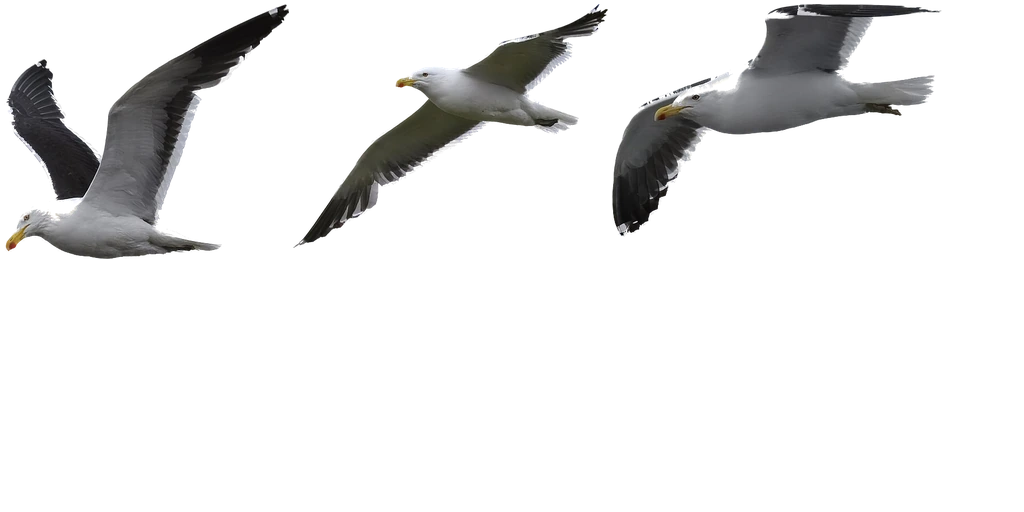
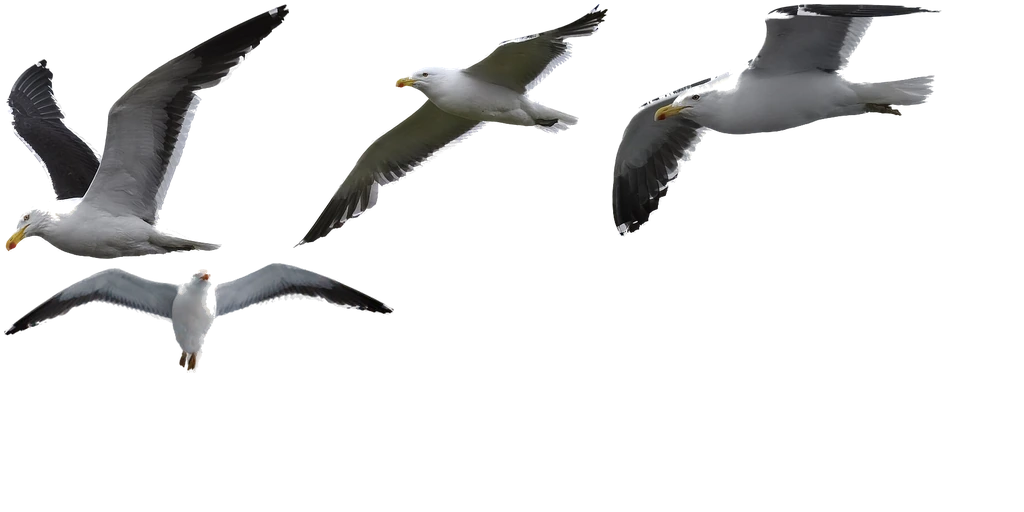
Give the kelp gull, raven and Verreaux's eagle head-on frames
These are the picture kinds that turn, and a picture flipped to its mirror
image as one turned through the eye's line. A head-on frame now covers that
moment: a kelp gull photographed coming on, a raven and the eagle from below
(the eagle levelled with the tool's new `turn`, both shortened by `squash`
to how a bird coming on from a little below looks).

Claude-Session: https://claude.ai/code/session_012iNshuFMyvbkPRWxxbwWQm

Changed region(s): [[0.0, 0.5, 0.4062, 0.7188]]

diff --git a/credits.html b/credits.html
@@ -40,12 +40,13 @@
 </table></div>
 <p>The stitched backdrops' skies are Poly Haven's Qwantani pure skies (below).</p>
 <h2>Birds</h2>
-<p>The birds are photographs of real ones from Wikimedia Commons, cut out of their backgrounds and resized, or for the 3D birds painted onto their models (<code>tools/bird-sprites.py</code>, <code>tools/bird-models.py</code>; this section is written by <code>tools/bird-credits.mjs</code> from the credits they record). Because the herring gull's, african sacred ibis's, blue jay's and northern cardinal's images are made from CC BY-SA photographs, they are shared under <a href="https://creativecommons.org/licenses/by-sa/4.0/">CC BY-SA 4.0</a> too.</p>
+<p>The birds are photographs of real ones from Wikimedia Commons, cut out of their backgrounds and resized, or for the 3D birds painted onto their models (<code>tools/bird-sprites.py</code>, <code>tools/bird-models.py</code>; this section is written by <code>tools/bird-credits.mjs</code> from the credits they record). Because the kelp gull's, herring gull's, african sacred ibis's, blue jay's and northern cardinal's images are made from CC BY-SA photographs, they are shared under <a href="https://creativecommons.org/licenses/by-sa/4.0/">CC BY-SA 4.0</a> too.</p>
 <div class="table"><table>
 <tr><th>Shows</th><th>Photograph</th><th>Author</th><th>Licence</th></tr>
 <tr><td>Kelp gull (Rocky cove)</td><td><a href="https://commons.wikimedia.org/wiki/File:Kelp_gull_half_moon_island_1.17.25_DSC_9790-topaz-rawdenoise.jpg">Kelp gull half moon island 1.17.25 DSC 9790-topaz-rawdenoise</a></td><td>lwolfartist</td><td><a href="https://creativecommons.org/licenses/by/2.0/">CC BY 2.0</a></td></tr>
 <tr><td>Kelp gull (Rocky cove)</td><td><a href="https://commons.wikimedia.org/wiki/File:Kelp_gull_deesembocadura_rio_olivia_DSC_3427-topaz-rawdenoise.jpg">Kelp gull deesembocadura rio olivia DSC 3427-topaz-rawdenoise</a></td><td>lwolfartist</td><td><a href="https://creativecommons.org/licenses/by/2.0/">CC BY 2.0</a></td></tr>
 <tr><td>Kelp gull (Rocky cove)</td><td><a href="https://commons.wikimedia.org/wiki/File:Kelp_gull_deesembocadura_rio_olivia_DSC_3294-topaz-rawdenoise.jpg">Kelp gull deesembocadura rio olivia DSC 3294-topaz-rawdenoise</a></td><td>lwolfartist</td><td><a href="https://creativecommons.org/licenses/by/2.0/">CC BY 2.0</a></td></tr>
+<tr><td>Kelp gull (Rocky cove)</td><td><a href="https://commons.wikimedia.org/wiki/File:Larus_dominicanus_DT_-AQ_Greenwich-_%2813%29_%2820237605973%29.jpg">Larus dominicanus DT -AQ Greenwich- (13) (20237605973)</a></td><td>Diego Tirira</td><td><a href="https://creativecommons.org/licenses/by-sa/2.0/">CC BY-SA 2.0</a></td></tr>
 <tr><td>Herring gull (Loch Ness)</td><td><a href="https://commons.wikimedia.org/wiki/File:Silberm%C3%B6we_%28Larus_argentatus%29_im_Flug_%282007%29.jpg">Silbermöwe (Larus argentatus) im Flug (2007)</a></td><td>Jochen Teufel</td><td><a href="https://creativecommons.org/licenses/by-sa/3.0/">CC BY-SA 3.0</a></td></tr>
 <tr><td>Herring gull (Loch Ness)</td><td><a href="https://commons.wikimedia.org/wiki/File:Herring_gull_in_flight_%2800905%29.jpg">Herring gull in flight (00905)</a></td><td>Rhododendrites</td><td><a href="https://creativecommons.org/licenses/by-sa/4.0/">CC BY-SA 4.0</a></td></tr>
 <tr><td>Grey heron (Koi pond, Highlands)</td><td><a href="https://commons.wikimedia.org/wiki/File:Grey_heron_2025_10_26_02.jpg">Grey heron 2025 10 26 02</a></td><td>Alexis Lours</td><td><a href="https://creativecommons.org/licenses/by/4.0/">CC BY 4.0</a></td></tr>
@@ -55,8 +56,10 @@
 <tr><td>Common raven (Swiss Alps)</td><td><a href="https://commons.wikimedia.org/wiki/File:Common_Raven_on_Seedskadee_NWR_%2822849558584%29.jpg">Common Raven on Seedskadee NWR (22849558584)</a></td><td>USFWS Mountain-Prairie</td><td><a href="https://creativecommons.org/publicdomain/mark/1.0/">Public domain</a></td></tr>
 <tr><td>Common raven (Swiss Alps)</td><td><a href="https://commons.wikimedia.org/wiki/File:Common_Raven_on_Seedskadee_NWR_%2822850605113%29.jpg">Common Raven on Seedskadee NWR (22850605113)</a></td><td>USFWS Mountain-Prairie</td><td><a href="https://creativecommons.org/publicdomain/mark/1.0/">Public domain</a></td></tr>
 <tr><td>Common raven (Swiss Alps)</td><td><a href="https://commons.wikimedia.org/wiki/File:Common_Raven_on_Seedskadee_NWR_%2823181911180%29.jpg">Common Raven on Seedskadee NWR (23181911180)</a></td><td>USFWS Mountain-Prairie</td><td><a href="https://creativecommons.org/publicdomain/mark/1.0/">Public domain</a></td></tr>
+<tr><td>Common raven (Swiss Alps)</td><td><a href="https://commons.wikimedia.org/wiki/File:Corvus_corax_CR5_5935_%2851036203491%29.jpg">Corvus corax CR5 5935 (51036203491)</a></td><td>Bengt Nyman</td><td><a href="https://creativecommons.org/licenses/by/2.0/">CC BY 2.0</a></td></tr>
 <tr><td>Verreaux's eagle (Desert oasis)</td><td><a href="https://commons.wikimedia.org/wiki/File:Verreaux%27s_Eagle._Black_Eagle%2C_Aquila_verreauxii%2C_at_Walter_Sisulu_National_Botanical_Garden%2C_Gauteng%2C_South_Africa_%2818987033114%29.jpg">Verreaux's Eagle. Black Eagle, Aquila verreauxii, at Walter Sisulu National Botanical Garden, Gauteng, South Africa (18987033114)</a></td><td>Derek Keats</td><td><a href="https://creativecommons.org/licenses/by/2.0/">CC BY 2.0</a></td></tr>
 <tr><td>Verreaux's eagle (Desert oasis)</td><td><a href="https://commons.wikimedia.org/wiki/File:Verreaux%27s_Eagle._Black_Eagle%2C_Aquila_verreauxii%2C_at_Walter_Sisulu_National_Botanical_Garden%2C_Gauteng%2C_South_Africa_%2819583407276%29.jpg">Verreaux's Eagle. Black Eagle, Aquila verreauxii, at Walter Sisulu National Botanical Garden, Gauteng, South Africa (19583407276)</a></td><td>Derek Keats</td><td><a href="https://creativecommons.org/licenses/by/2.0/">CC BY 2.0</a></td></tr>
+<tr><td>Verreaux's eagle (Desert oasis)</td><td><a href="https://commons.wikimedia.org/wiki/File:Verreaux%27s_Eagle._Black_Eagle%2C_Aquila_verreauxii%2C_at_Walter_Sisulu_National_Botanical_Garden%2C_Gauteng%2C_South_Africa_%2819609395245%29.jpg">Verreaux's Eagle. Black Eagle, Aquila verreauxii, at Walter Sisulu National Botanical Garden, Gauteng, South Africa (19609395245)</a></td><td>Derek Keats</td><td><a href="https://creativecommons.org/licenses/by/2.0/">CC BY 2.0</a></td></tr>
 <tr><td>African fish eagle (Lakeside)</td><td><a href="https://commons.wikimedia.org/wiki/File:African_fish_eagle%2C_Haliaeetus_vocifer%2C_at_Chobe_National_Park%2C_Botswana_%2832832146603%29.jpg">African fish eagle, Haliaeetus vocifer, at Chobe National Park, Botswana (32832146603)</a></td><td>Derek Keats</td><td><a href="https://creativecommons.org/licenses/by/2.0/">CC BY 2.0</a></td></tr>
 <tr><td>African fish eagle (Lakeside)</td><td><a href="https://commons.wikimedia.org/wiki/File:African_fish_eagle%2C_Haliaeetus_vocifer%2C_at_Lake_Chivero%2C_Harare%2C_Zimbabwe_%2821313291203%29.jpg">African fish eagle, Haliaeetus vocifer, at Lake Chivero, Harare, Zimbabwe (21313291203)</a></td><td>Derek Keats</td><td><a href="https://creativecommons.org/licenses/by/2.0/">CC BY 2.0</a></td></tr>
 <tr><td>Mute swan (Wooded lake)</td><td><a href="https://commons.wikimedia.org/wiki/File:After_eating_the_family_was_leaving_Houten_-_panoramio.jpg">After eating the family was leaving Houten - panoramio</a></td><td>Henk Mons</td><td><a href="https://creativecommons.org/licenses/by/3.0/">CC BY 3.0</a></td></tr>

diff --git a/tools/bird-sprites.py b/tools/bird-sprites.py
@@ -42,7 +42,11 @@
 # a white sky), matched by the mean colour of its body's mid-tones (a photo
 # whose whites are clipped cannot be: take another); `darks` (a knee,
 # 0-255, and a power) deepens only what is darker than the knee, a photo
-# whose black head and wingtips the haze has washed grey. Each frame faces left
+# whose black head and wingtips the haze has washed grey. `turn` (degrees,
+# anticlockwise) levels a bird photographed banking; `squash` (a share)
+# shortens a bird seen from straight below to how it looks coming on from a
+# little below (a flat bird's depth foreshortened: its head-on frame, where
+# no head-on photo is to be had). Each frame faces left
 # (`flip` turns one that faces right) and is scaled so its box is `metres`
 # wide (or tall, `measure: 'height'`), at its kind's PIXELS_PER_METRE: about
 # 400 pixels across a flying bird's wings, more for the heron, seen nearest.
@@ -105,6 +109,9 @@ PHOTOS = [
          cut='sky', low=20, high=48, fill=True, flip=True, metres=0.95, anchor=(0.6, 0.2)),
     dict(frame='kelp-down', bird='kelp', file='Kelp gull deesembocadura rio olivia DSC 3294-topaz-rawdenoise.jpg', author='lwolfartist', licence=CC_BY_2,
          cut='sky', low=20, high=48, fill=True, metres=1.05, anchor=(0.55, 0.6)),
+    # Head on, coming at the eye from a little below (Antarctic Peninsula, under a blue-grey sky: brought to the others' white light).
+    dict(frame='kelp-front', bird='kelp', file='Larus dominicanus DT -AQ Greenwich- (13) (20237605973).jpg', author='Diego Tirira', licence=CC_BY_SA_2,
+         cut='sky', low=20, high=48, fill=True, gain=(1.25, 1.12, 1.03), metres=1.3, anchor=(0.5, 0.6)),
     # A great frigatebird (immature) soaring over Midway Atoll, from below: banking, and coming on.
     dict(frame='frigate-glide', bird='frigate', file='Great Frigatebird ( immature) Eastern Island Midway Atoll 2019-01-07 16-16-20 (46379948975).jpg', author='Bettina Arrigoni', licence=CC_BY_2,
          cut='sky', low=35, high=80, fill=True, metres=1.9, anchor=(0.5, 0.6)),
@@ -124,6 +131,9 @@ PHOTOS = [
     # Wings at the top of the stroke.
     dict(frame='goose-up', bird='goose', file='Nilgans (54254515720).jpg', author='Ralf Hüsges', licence=CC_BY_2,
          cut='sky', low=35, high=80, flip=True, metres=1.2, anchor=(0.5, 0.3)),
+    # From below (the same garden), levelled and shortened to how it looks coming on: its head-on frame.
+    dict(frame='eagle-front', bird='eagle', file="Verreaux's Eagle. Black Eagle, Aquila verreauxii, at Walter Sisulu National Botanical Garden, Gauteng, South Africa (19609395245).jpg", author='Derek Keats', licence=CC_BY_2,
+         cut='sky', low=35, high=80, turn=-60, squash=0.55, metres=2.0, anchor=(0.5, 0.55)),
     # African fish eagles: gliding by (a post beside it cropped away), its wings raised, and coming on.
     dict(frame='fishEagle-glide', bird='fishEagle', file='2021 sep kenia-62 (51676976311).jpg', author='leopoldo de castro', licence=CC_BY_2,
          cut='sky', low=35, high=80, crop=(420, 0, 1280, 997), flip=True, metres=2.0, anchor=(0.45, 0.45)),
@@ -154,6 +164,9 @@ PHOTOS = [
          cut='sky', low=35, high=80, metres=0.9, anchor=(0.4, 0.5)),
     dict(frame='raven-up', bird='raven', file='Common Raven on Seedskadee NWR (23181911180).jpg', author='USFWS Mountain-Prairie', licence=PUBLIC_DOMAIN,
          cut='sky', low=35, high=80, metres=0.85, anchor=(0.4, 0.4)),
+    # From below, coming on (Bogesund, Sweden, under a white sky).
+    dict(frame='raven-front', bird='raven', file='Corvus corax CR5 5935 (51036203491).jpg', author='Bengt Nyman', licence=CC_BY_2,
+         cut='sky', low=35, high=80, squash=0.7, metres=1.25, anchor=(0.5, 0.55)),
     dict(frame='herring-glide', bird='herring', file='Herring Gull (44562549102).jpg', author='Mike Prince', licence=CC_BY_2,
          cut='blue', low=14, high=34, metres=0.8, anchor=(0.45, 0.6)),
     dict(frame='herring-up', bird='herring', file='Gråtrut European Herring Gull (13896263568).jpg', author='Åsa Berndtsson', licence=CC_BY_2,
@@ -289,6 +302,10 @@ def frame_image(spec):
     if 'darks' in spec:
         knee, power = spec['darks']
         colour = np.where(colour < knee, knee * (colour / knee) ** power, colour)
+    if 'turn' in spec:   # premultiplied, so the clear pixels round it never darken its edge
+        turned = ndimage.rotate(np.dstack([colour * alpha[..., None], alpha]), spec['turn'], axes=(1, 0), reshape=True, order=1, mode='constant')
+        alpha = np.clip(turned[..., 3], 0, 1)
+        colour = np.clip(turned[..., :3] / np.maximum(alpha, 1e-3)[..., None], 0, 255)
     ys, xs = np.nonzero(alpha > 0.02)
     left, top, right, bottom = xs.min(), ys.min(), xs.max() + 1, ys.max() + 1
     picture = Image.fromarray(np.dstack([colour, alpha * 255]).astype(np.uint8)).crop((left, top, right, bottom))
@@ -302,7 +319,7 @@ def frame_image(spec):
     width, height = picture.size
     box = height if spec.get('measure') == 'height' else width
     scale = spec['metres'] * PIXELS_PER_METRE[spec['bird']] / box
-    picture = picture.resize((max(round(width * scale), 1), max(round(height * scale), 1)), Image.LANCZOS)
+    picture = picture.resize((max(round(width * scale), 1), max(round(height * scale * spec.get('squash', 1)), 1)), Image.LANCZOS)
     metres = (picture.size[0] / PIXELS_PER_METRE[spec['bird']], picture.size[1] / PIXELS_PER_METRE[spec['bird']])
     return picture, metres, anchor
 

diff --git a/CREDITS.md b/CREDITS.md
@@ -23,13 +23,14 @@ The stitched backdrops' skies are Poly Haven's Qwantani pure skies (below).
 
 ## Birds
 
-The birds are photographs of real ones from Wikimedia Commons, cut out of their backgrounds and resized, or for the 3D birds painted onto their models (`tools/bird-sprites.py`, `tools/bird-models.py`; this section is written by `tools/bird-credits.mjs` from the credits they record). Because the herring gull's, african sacred ibis's, blue jay's and northern cardinal's images are made from CC BY-SA photographs, they are shared under [CC BY-SA 4.0](https://creativecommons.org/licenses/by-sa/4.0/) too.
+The birds are photographs of real ones from Wikimedia Commons, cut out of their backgrounds and resized, or for the 3D birds painted onto their models (`tools/bird-sprites.py`, `tools/bird-models.py`; this section is written by `tools/bird-credits.mjs` from the credits they record). Because the kelp gull's, herring gull's, african sacred ibis's, blue jay's and northern cardinal's images are made from CC BY-SA photographs, they are shared under [CC BY-SA 4.0](https://creativecommons.org/licenses/by-sa/4.0/) too.
 
 | Shows | Photograph | Author | Licence |
 |---|---|---|---|
 | Kelp gull (Rocky cove) | [Kelp gull half moon island 1.17.25 DSC 9790-topaz-rawdenoise](https://commons.wikimedia.org/wiki/File:Kelp_gull_half_moon_island_1.17.25_DSC_9790-topaz-rawdenoise.jpg) | lwolfartist | [CC BY 2.0](https://creativecommons.org/licenses/by/2.0/) |
 | Kelp gull (Rocky cove) | [Kelp gull deesembocadura rio olivia DSC 3427-topaz-rawdenoise](https://commons.wikimedia.org/wiki/File:Kelp_gull_deesembocadura_rio_olivia_DSC_3427-topaz-rawdenoise.jpg) | lwolfartist | [CC BY 2.0](https://creativecommons.org/licenses/by/2.0/) |
 | Kelp gull (Rocky cove) | [Kelp gull deesembocadura rio olivia DSC 3294-topaz-rawdenoise](https://commons.wikimedia.org/wiki/File:Kelp_gull_deesembocadura_rio_olivia_DSC_3294-topaz-rawdenoise.jpg) | lwolfartist | [CC BY 2.0](https://creativecommons.org/licenses/by/2.0/) |
+| Kelp gull (Rocky cove) | [Larus dominicanus DT -AQ Greenwich- (13) (20237605973)](https://commons.wikimedia.org/wiki/File:Larus_dominicanus_DT_-AQ_Greenwich-_%2813%29_%2820237605973%29.jpg) | Diego Tirira | [CC BY-SA 2.0](https://creativecommons.org/licenses/by-sa/2.0/) |
 | Herring gull (Loch Ness) | [Silbermöwe (Larus argentatus) im Flug (2007)](https://commons.wikimedia.org/wiki/File:Silberm%C3%B6we_%28Larus_argentatus%29_im_Flug_%282007%29.jpg) | Jochen Teufel | [CC BY-SA 3.0](https://creativecommons.org/licenses/by-sa/3.0/) |
 | Herring gull (Loch Ness) | [Herring gull in flight (00905)](https://commons.wikimedia.org/wiki/File:Herring_gull_in_flight_%2800905%29.jpg) | Rhododendrites | [CC BY-SA 4.0](https://creativecommons.org/licenses/by-sa/4.0/) |
 | Grey heron (Koi pond, Highlands) | [Grey heron 2025 10 26 02](https://commons.wikimedia.org/wiki/File:Grey_heron_2025_10_26_02.jpg) | Alexis Lours | [CC BY 4.0](https://creativecommons.org/licenses/by/4.0/) |
@@ -39,8 +40,10 @@ The birds are photographs of real ones from Wikimedia Commons, cut out of their 
 | Common raven (Swiss Alps) | [Common Raven on Seedskadee NWR (22849558584)](https://commons.wikimedia.org/wiki/File:Common_Raven_on_Seedskadee_NWR_%2822849558584%29.jpg) | USFWS Mountain-Prairie | [Public domain](https://creativecommons.org/publicdomain/mark/1.0/) |
 | Common raven (Swiss Alps) | [Common Raven on Seedskadee NWR (22850605113)](https://commons.wikimedia.org/wiki/File:Common_Raven_on_Seedskadee_NWR_%2822850605113%29.jpg) | USFWS Mountain-Prairie | [Public domain](https://creativecommons.org/publicdomain/mark/1.0/) |
 | Common raven (Swiss Alps) | [Common Raven on Seedskadee NWR (23181911180)](https://commons.wikimedia.org/wiki/File:Common_Raven_on_Seedskadee_NWR_%2823181911180%29.jpg) | USFWS Mountain-Prairie | [Public domain](https://creativecommons.org/publicdomain/mark/1.0/) |
+| Common raven (Swiss Alps) | [Corvus corax CR5 5935 (51036203491)](https://commons.wikimedia.org/wiki/File:Corvus_corax_CR5_5935_%2851036203491%29.jpg) | Bengt Nyman | [CC BY 2.0](https://creativecommons.org/licenses/by/2.0/) |
 | Verreaux's eagle (Desert oasis) | [Verreaux's Eagle. Black Eagle, Aquila verreauxii, at Walter Sisulu National Botanical Garden, Gauteng, South Africa (18987033114)](https://commons.wikimedia.org/wiki/File:Verreaux%27s_Eagle._Black_Eagle%2C_Aquila_verreauxii%2C_at_Walter_Sisulu_National_Botanical_Garden%2C_Gauteng%2C_South_Africa_%2818987033114%29.jpg) | Derek Keats | [CC BY 2.0](https://creativecommons.org/licenses/by/2.0/) |
 | Verreaux's eagle (Desert oasis) | [Verreaux's Eagle. Black Eagle, Aquila verreauxii, at Walter Sisulu National Botanical Garden, Gauteng, South Africa (19583407276)](https://commons.wikimedia.org/wiki/File:Verreaux%27s_Eagle._Black_Eagle%2C_Aquila_verreauxii%2C_at_Walter_Sisulu_National_Botanical_Garden%2C_Gauteng%2C_South_Africa_%2819583407276%29.jpg) | Derek Keats | [CC BY 2.0](https://creativecommons.org/licenses/by/2.0/) |
+| Verreaux's eagle (Desert oasis) | [Verreaux's Eagle. Black Eagle, Aquila verreauxii, at Walter Sisulu National Botanical Garden, Gauteng, South Africa (19609395245)](https://commons.wikimedia.org/wiki/File:Verreaux%27s_Eagle._Black_Eagle%2C_Aquila_verreauxii%2C_at_Walter_Sisulu_National_Botanical_Garden%2C_Gauteng%2C_South_Africa_%2819609395245%29.jpg) | Derek Keats | [CC BY 2.0](https://creativecommons.org/licenses/by/2.0/) |
 | African fish eagle (Lakeside) | [African fish eagle, Haliaeetus vocifer, at Chobe National Park, Botswana (32832146603)](https://commons.wikimedia.org/wiki/File:African_fish_eagle%2C_Haliaeetus_vocifer%2C_at_Chobe_National_Park%2C_Botswana_%2832832146603%29.jpg) | Derek Keats | [CC BY 2.0](https://creativecommons.org/licenses/by/2.0/) |
 | African fish eagle (Lakeside) | [African fish eagle, Haliaeetus vocifer, at Lake Chivero, Harare, Zimbabwe (21313291203)](https://commons.wikimedia.org/wiki/File:African_fish_eagle%2C_Haliaeetus_vocifer%2C_at_Lake_Chivero%2C_Harare%2C_Zimbabwe_%2821313291203%29.jpg) | Derek Keats | [CC BY 2.0](https://creativecommons.org/licenses/by/2.0/) |
 | Mute swan (Wooded lake) | [After eating the family was leaving Houten - panoramio](https://commons.wikimedia.org/wiki/File:After_eating_the_family_was_leaving_Houten_-_panoramio.jpg) | Henk Mons | [CC BY 3.0](https://creativecommons.org/licenses/by/3.0/) |
